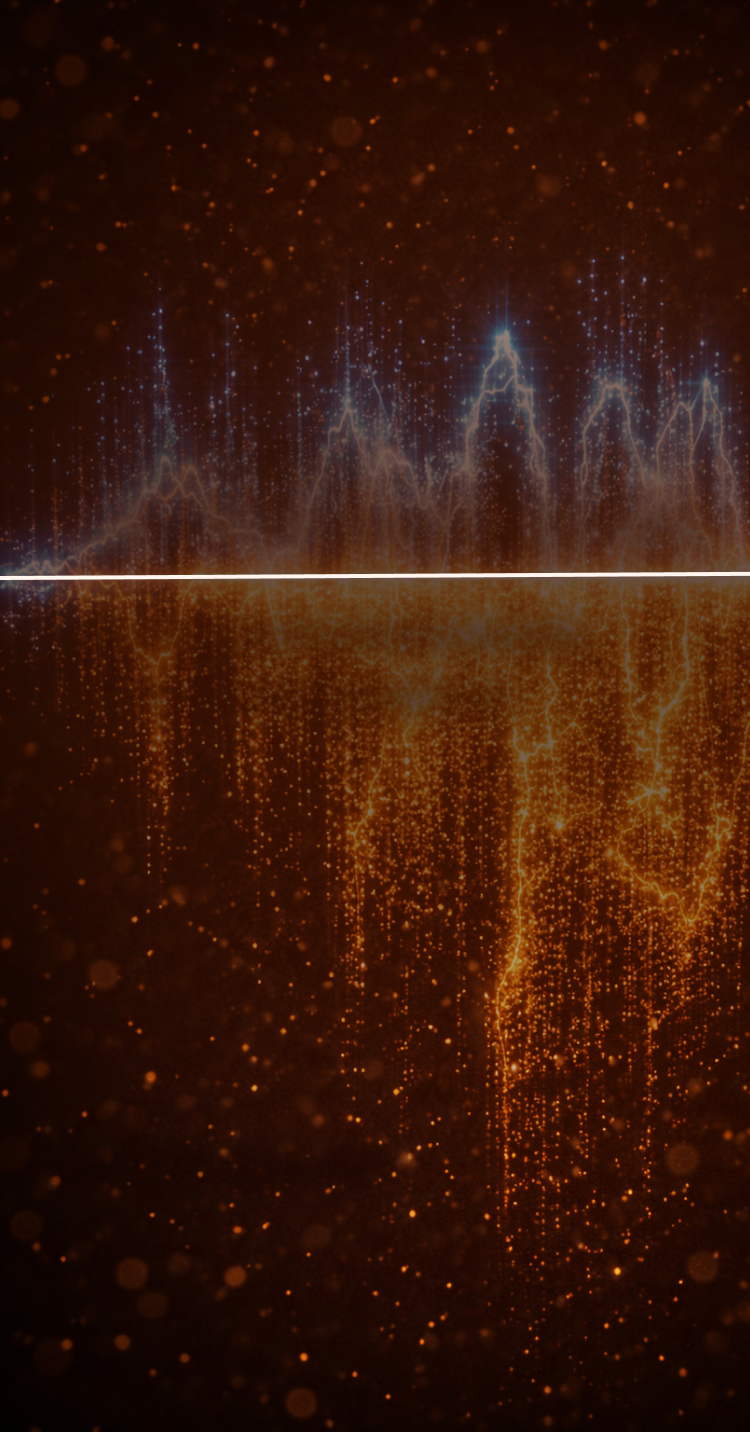
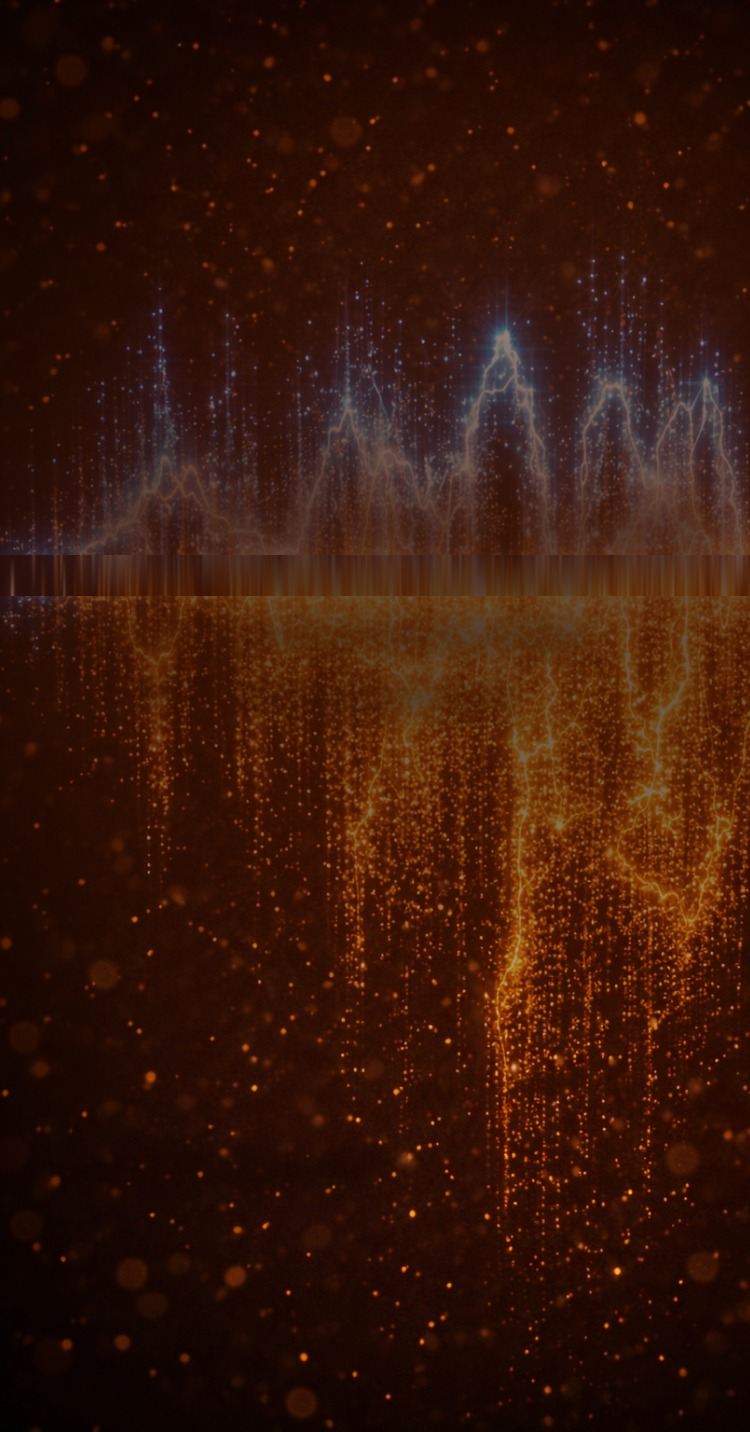
Revert "feat(s1): update mobile hero background and animation styles"
This reverts commit 4728c91a9c7f6e3cf5c2d9ab028c802cf3791786.

Changed region(s): [[0.0, 0.3687, 1.0, 0.4302]]

diff --git a/src/app/globals.css b/src/app/globals.css
@@ -1169,7 +1169,73 @@ img.desktop-only { display: block !important; }
     position: absolute;
     inset: 0;
     z-index: 0;
+    overflow: hidden;
+    background: #1a0d05;
   }
+
+  /* Mobile animated hero — layered like desktop:
+     1. .s1-m-bg-layer    — static dark ambient (same s1-hero-bg.jpg as desktop)
+     2. .s1-m-detail-layer — bright lightning PNG, screen-blended, animated
+     3. .s1-m-darken      — radial vignette so text stays readable */
+  .s1-m-bg-layer {
+    position: absolute;
+    inset: 0;
+    background: #1a0d05 url('/images/effects/s1-hero-bg.jpg') center/cover no-repeat;
+    z-index: 0;
+  }
+  .s1-m-detail-layer {
+    position: absolute;
+    /* Detail PNG is wide aspect; on mobile we blow it up so the lightning
+       fills the upper-middle zone behind the headings. */
+    inset: 18% -25% auto -25%;
+    height: 50%;
+    background: url('/images/effects/s1-hero-detail.png') center/contain no-repeat;
+    mix-blend-mode: screen;
+    opacity: 0.92;
+    transform-origin: center 50%;
+    animation:
+      s1DetailBreathX 12s ease-in-out infinite,
+      s1DetailFloat   17s ease-in-out infinite,
+      s1DetailPulse    7s ease-in-out infinite;
+    will-change: transform, filter, opacity;
+    z-index: 1;
+    pointer-events: none;
+  }
+  .s1-m-darken {
+    position: absolute;
+    inset: 0;
+    z-index: 2;
+    pointer-events: none;
+    background:
+      radial-gradient(
+        ellipse 75% 50% at 50% 48%,
+        rgba(15, 8, 3, 0.65) 0%,
+        rgba(15, 8, 3, 0.45) 35%,
+        rgba(15, 8, 3, 0.20) 65%,
+        rgba(15, 8, 3, 0)    100%
+      ),
+      linear-gradient(
+        to bottom,
+        rgba(10, 5, 2, 0.40) 0%,
+        rgba(10, 5, 2, 0)    25%,
+        rgba(10, 5, 2, 0)    75%,
+        rgba(10, 5, 2, 0.45) 100%
+      );
+    mix-blend-mode: multiply;
+  }
+
+  @media (prefers-reduced-motion: reduce) {
+    .s1-m-detail-layer { animation: none; }
+  }
+
+  /* All foreground hero text/button must sit above the darken layer (z:2). */
+  .s1-m-tagline,
+  .s1-m-title1,
+  .s1-m-title2,
+  .s1-m-title3,
+  .s1-m-glow-line,
+  .s1-m-subtitle,
+  .s1-m-btn { z-index: 3; }
 
   /* Tagline "Новый / Интеллект / Реальности" — opacity 70%
      Figma: inset top=13.69% left=37.87% right=38.13% bottom=80.45% */
@@ -1235,9 +1301,23 @@ img.desktop-only { display: block !important; }
     font-feature-settings: 'lnum' 1, 'pnum' 1;
   }
 
-  /* Divider line is baked into the Figma background image (energy edge between
-     blue/gold lightning halves) — no extra CSS line needed. */
-  .s1-m-glow-line { display: none; }
+  /* Golden glow divider line — horizontal CSS gradient (replaces slanted line.png)
+     Sits between СОСТОЯНИЕМ and АННЫ — ~285/716=39.8% */
+  .s1-m-glow-line {
+    position: absolute;
+    top: 39.8%;
+    left: 0;
+    right: 0;
+    height: 1px;
+    background: linear-gradient(to right,
+      transparent 0%,
+      rgba(255, 245, 239, 0.15) 15%,
+      rgba(255, 245, 239, 0.7) 50%,
+      rgba(255, 245, 239, 0.15) 85%,
+      transparent 100%);
+    box-shadow: 0 0 6px rgba(255, 245, 239, 0.35);
+    animation: pulse-glow 4s ease-in-out infinite;
+  }
 
   /* АННЫ МЕДВЕДЕВОЙ — Cormorant Garamond Medium 28px
      Figma: top=calc(50%−61px) → 297/716=41.48% */

diff --git a/src/components/HeroSection.tsx b/src/components/HeroSection.tsx
@@ -41,16 +41,10 @@ export default function HeroSection() {
 
       {/* ── Mobile: pure HTML hero (Figma node 1-73, 375×716) ── */}
       <div className="s1-mobile-hero mobile-only">
-        {/* Background — Figma node 1:74 baked composite */}
-        <Image
-          src="/images/backgrounds/bg-s1-mobile-clean.jpg"
-          alt=""
-          fill
-          style={{ objectFit: 'cover', objectPosition: 'center top' }}
-          priority
-          quality={95}
-          sizes="100vw"
-        />
+        {/* Layered animated background — same pattern as desktop */}
+        <div className="s1-m-bg-layer" aria-hidden="true" />
+        <div className="s1-m-detail-layer" aria-hidden="true" />
+        <div className="s1-m-darken" aria-hidden="true" />
 
         {/* "Новый / Интеллект / Реальности" — opacity 70% tagline */}
         <p className="s1-m-tagline">
